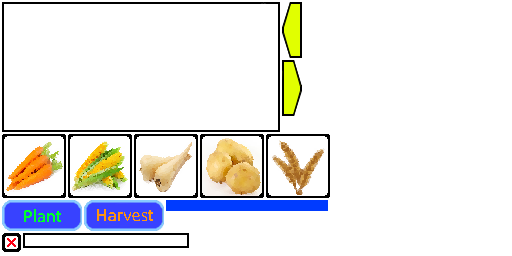
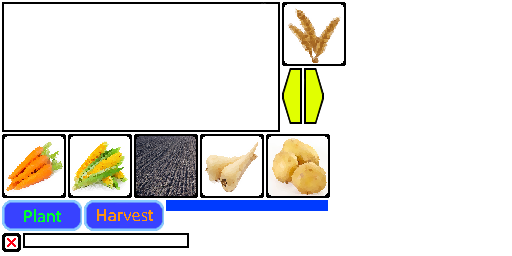
Plugging in field pane buttons

Changed region(s): [[0.25, 0.5312, 0.6562, 0.7812], [0.5312, 0.0, 0.6875, 0.5]]

diff --git a/src/game.js b/src/game.js
@@ -47,45 +47,98 @@ Rustica.UI.ProgressBar.prototype.changeProgressBar = function (progressBarImg) {
     this.progressBarWidth = this.width - (this.progressBarOffset["left"]+this.progressBarOffset["right"]);
     this.progressBarImg.width = this.progressBarWidth;
     this.progressBarImg.height = this.height - (this.progressBarOffset["top"]+this.progressBarOffset["bottom"]);
-    this.add(this.progressBarImg);
+    this.content.add(this.progressBarImg);
 };
 
 
+
+//var crops = [ new Crop("Empty",  0.0, 0, 0.0), 	new Crop("Wheat",  2.0, 1, 0.1),
+//              new Crop("Potato", 1.0, 2, 0.2), 	new Crop("Carrot", 0.5, 3, 0.3) ];
+
+var crops = [
+				{
+					name : "Empty",
+					image : "empty.png",
+					growthTime: 0.0,
+					value : 0.0,
+					cost : 0.0
+				},
+				{
+					name : "Wheat",
+					image : "wheat.png",
+					growthTime: 2.0,
+					value : 1.0,
+					cost : 0.1
+				},
+				{
+					name : "Potato",
+					image : "potato.png",
+					growthTime: 1.0,
+					value : 2.0,
+					cost : 0.2
+				},
+				{
+					name : "Carrot",
+					image : "carrot.png",
+					growthTime: 0.5,
+					value : 3.0,
+					cost : 0.3
+				},
+				{
+					name : "Corn",
+					image : "corn.png",
+					growthTime: 1,
+					value : 1.0,
+					cost : 0.1
+				},
+				{
+					name : "Parsnip",
+					image : "parsnip.png",
+					growthTime: 1,
+					value : 1.0,
+					cost : 0.1
+				}
+
+];
+
 Rustica.Game.Field = function(game) {
 	var pane = new Phaser.Image(game, 0,0, "cropUI", "crop_pane.png");
-	pane.z = -10;
 	Rustica.UI.Pane.call(this, game, 0, 0, pane.width, pane.height, pane);
 
+	this.fieldText = new Phaser.Text(game, 0, 0, "Field of Wheat", { font: "12pt Courier", fill: "#19cb65", stroke: "#119f4e", strokeThickness: 1 });
 	this.sizeText = new Phaser.Text(game, 0, 0, "Size: ", { font: "12pt Courier", fill: "#19cb65", stroke: "#119f4e", strokeThickness: 1 });
 	this.costText = new Phaser.Text(game, 0, 0, "Cost: ", { font: "12pt Courier", fill: "#19cb65", stroke: "#119f4e", strokeThickness: 1 });
+
+	this.cropIndex = 0;
 
 	var bgImg = new Phaser.Image(game, 0,0, "cropUI", "progressBar_Bg.png");
 	var fgImg = new Phaser.Image(game, 0,0, "cropUI", "progressBar_Fg.png");
 	
 	this.progressBar = new Rustica.UI.ProgressBar(game,0,0,bgImg.width,bgImg.height,bgImg,fgImg,0, { left:2, right:2, top:2, bottom:2});
 	
-	this.deleteField = new Phaser.Button(game, 0, 0, "cropUI", buttonDown, this, 
+	this.deleteField = new Phaser.Button(game, 0, 0, "cropUI", this.removeField, this, 
     "cross.png", "cross.png", 
     "cross.png", "cross.png");
 
 	//deleteField.anchor.setTo(1, 0);
 
-	this.prevCropButton = new Phaser.Button(game, 0, 0, "cropUI", buttonDown, this, 
+	this.prevCropButton = new Phaser.Button(game, 0, 0, "cropUI", this.prevCrop, this, 
 		    "left.png", "left.png", 
 		    "left.png", "left.png");
-	this.nextCropButton = new Phaser.Button(game, 0, 0, "cropUI", buttonDown, this, 
+	this.nextCropButton = new Phaser.Button(game, 0, 0, "cropUI", this.nextCrop, this, 
 		    "right.png", "right.png", 
 		    "right.png", "right.png");
 	
-		    
-	this.cropImage = new Phaser.Image(game, 0,0, "cropUI", "wheat.png");
+	this.setCropImage();
 	
-	this.applyAction = new Phaser.Button(game, 0, 0, "cropUI", buttonDown, this, 
+	this.applyAction = new Phaser.Button(game, 0, 0, "cropUI", this.apply, this, 
     "Plant_Button.png", "Plant_Button.png", 
     "Plant_Button.png", "Plant_Button.png");
 
-	this.addItem(this.sizeText,10,40);
-	this.addItem(this.costText,10,54);
+	this.addItem(this.fieldText,10,16);
+	this.addItem(this.sizeText,10,30);
+	this.addItem(this.costText,10,44);
+	
 	this.addItem(this.progressBar,10,104);
 	this.addItem(this.applyAction,190,94);
 	
@@ -96,10 +149,46 @@ Rustica.Game.Field = function(game) {
 	this.addItem(this.nextCropButton,250,24);
 
 	return this;
-}
+};
 
 Rustica.Game.Field.prototype = Object.create(Rustica.UI.Pane.prototype);
 Rustica.Game.Field.prototype.constructor = Rustica.Game.Field;
+
+	
+
+Rustica.Game.Field.prototype.setCropImage = function (){
+	
+	var crop = crops[this.cropIndex];
+	
+	if(this.cropImage){
+	    console.log(this.cropIndex + " " + crop.name + " " + crop.image ) ;
+		this.cropImage.frameName = crop.image;
+	}
+	else {
+		//this.cropImage = new Phaser.Image(game, 0,0, "cropUI", crop.image);
+		this.cropImage = new Phaser.Image(game, 0,0, "cropUI", "");
+		this.cropImage.frameName = crop.image;
+	}
+	
+};
+	
+Rustica.Game.Field.prototype.removeField = function (){
+    console.log(this.fieldText.text);
+};
+
+Rustica.Game.Field.prototype.nextCrop = function (){
+	this.cropIndex+=1
+	this.cropIndex = this.cropIndex.clamp(0,crops.length-1);
+	this.setCropImage();
+};
+Rustica.Game.Field.prototype.prevCrop = function (){
+	this.cropIndex-=1
+	this.cropIndex = this.cropIndex.clamp(0,crops.length-1);
+	this.setCropImage();
+};
+Rustica.Game.Field.prototype.apply = function (){
+    console.log("apply");
+};
 
 
 function preload() {
